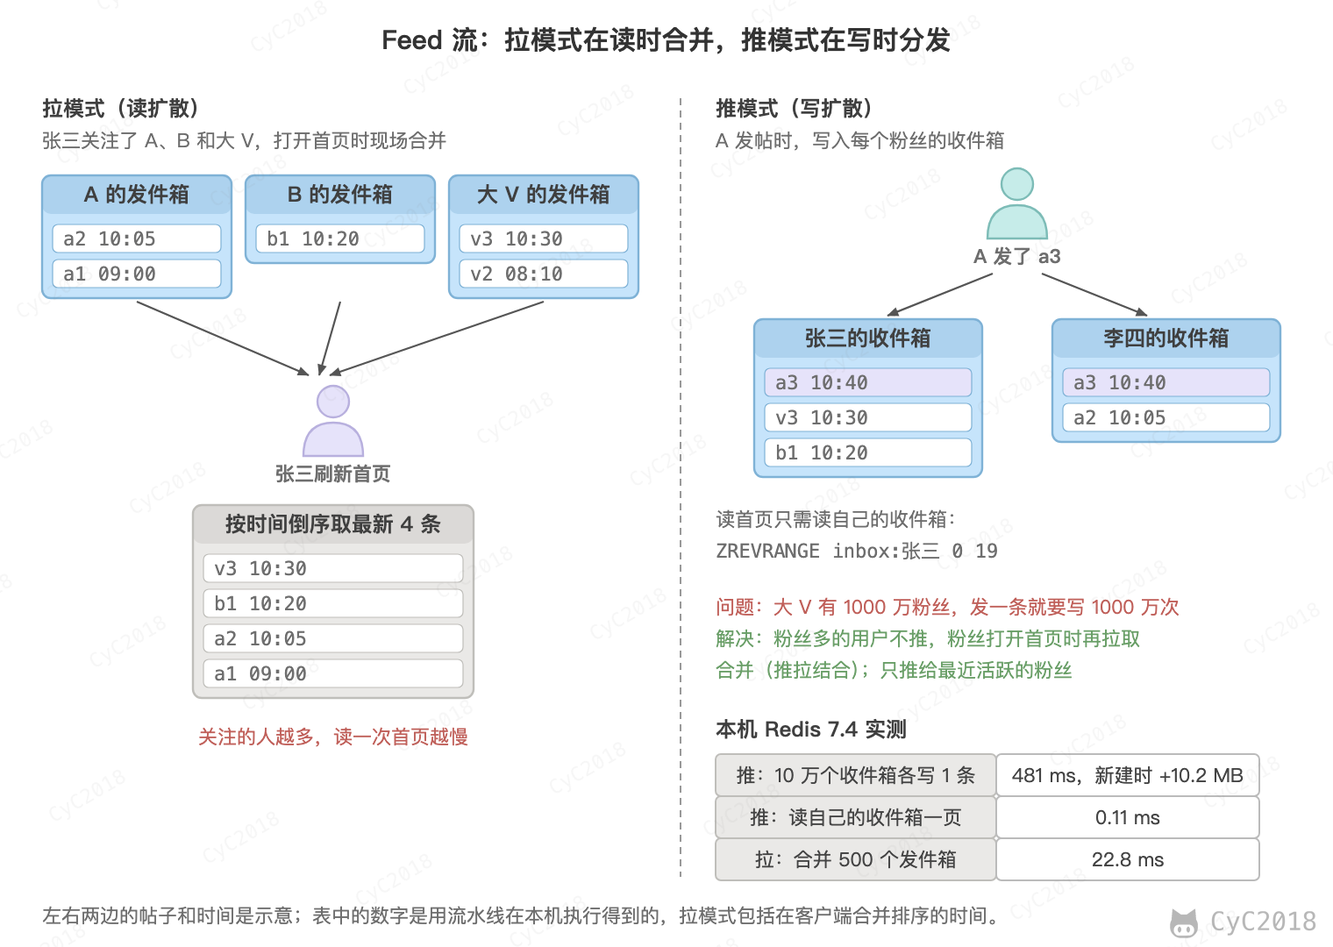
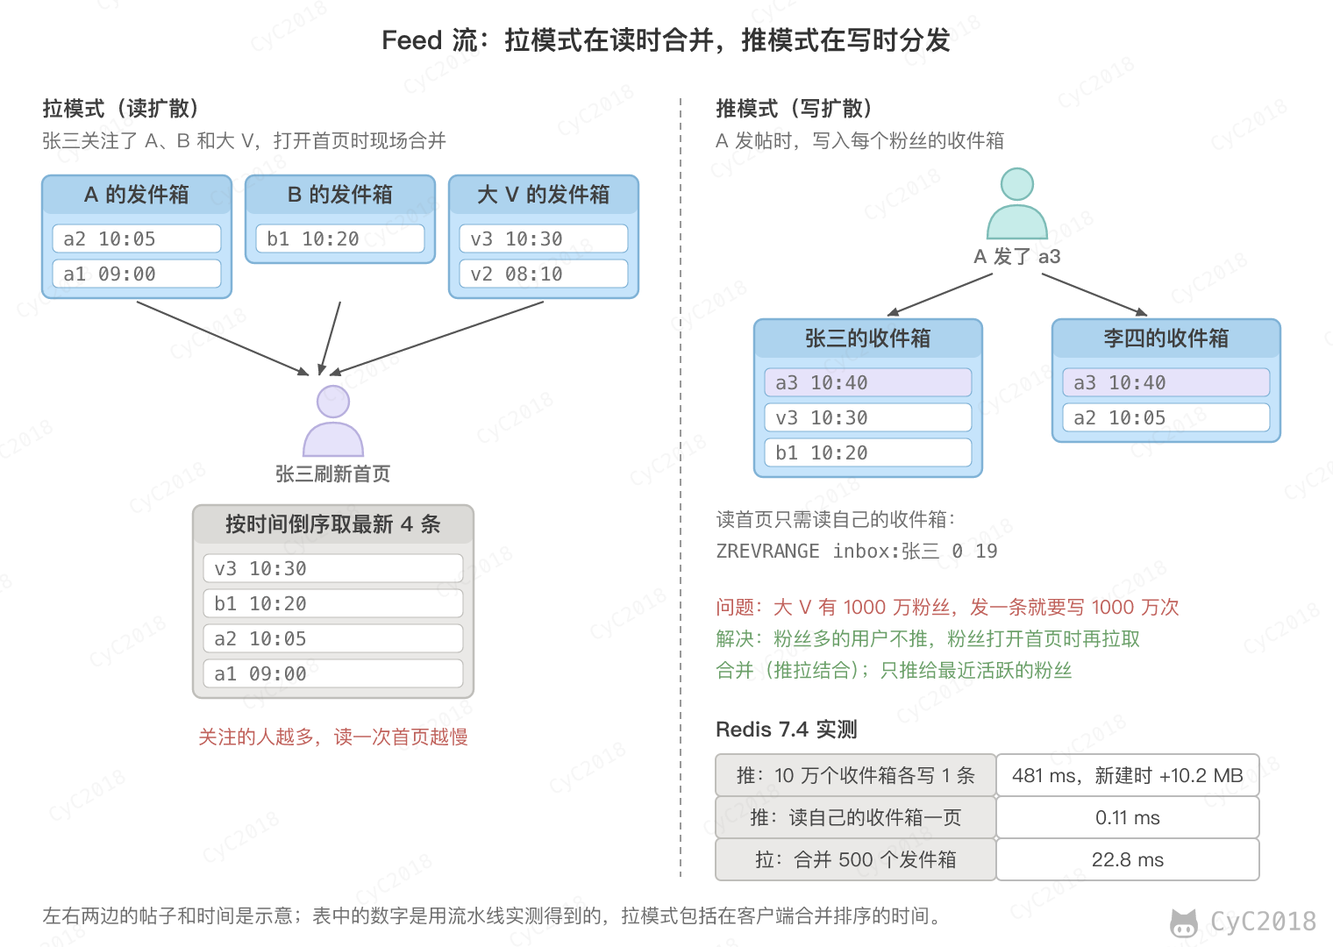
Update 系统设计基础.md
补充 Lua 脚本中 math.random 的行为（附录 A26）、红包到期退款的顺序、API 签名覆盖的字段与随机数的保存、数据权限改写 SQL 的注意事项、MinIO 的分片限制；调整 Feed 配图的说明。

diff --git a/notes/系统设计基础.md b/notes/系统设计基础.md
@@ -302,7 +302,7 @@ return 0                                            -- 可以发送
 
 同一个手机号 1 秒内请求 5 次，只有第 1 次发送了短信；把冷却时间改为 1 秒后连续请求 12 次，第 11、12 次因为当天的次数用完被拒绝；同一个 IP 给 30 个手机号发验证码，从第 21 个开始被拒绝（Redis 7.4 实测，见[附录 A20](#a20-接口防刷)）。按小时、按天计数是固定窗口，窗口边界附近可能短时间内放过两倍的请求，需要更精确时改用滑动窗口，见 [限流算法](#1-限流算法)。
 
-验证码本身也要防止被猜中。6 位数字只有 100 万种，不限制输错次数时，在本机直接调用校验脚本逐个尝试，第 835770 次猜中，只用了 8 秒（见附录 A20）；通过网络调用接口会慢一些，但按每秒 1000 次计算，平均约 8 分钟也能猜中。所以校验时：
+验证码本身也要防止被猜中。6 位数字只有 100 万种，不限制输错次数时，在服务器所在的机器上直接调用校验逻辑逐个尝试，第 835770 次猜中，只用了 8 秒（见附录 A20）；通过网络调用接口会慢一些，但按每秒 1000 次计算，平均约 8 分钟也能猜中。所以校验时：
 
 - 验证码保存在 Redis 中，5 分钟后过期，多个服务实例都能读到；
 - 输对后立即删除，一个验证码只能用一次；
@@ -310,7 +310,7 @@ return 0                                            -- 可以发送
 
 加上发送的限制，一个手机号每天最多能猜 50 次，猜中的概率只有 50 / 10<sup>6</sup> = 0.005%。
 
-开放给合作方的接口还要防止请求被篡改或者重放。重放指的是把截获的合法请求原样再发一次，例如把一次退款请求重复提交。做法是双方事先约定一个密钥，调用方把请求的关键字段和时间戳、随机数（nonce）拼在一起，用密钥计算 HMAC 签名：
+开放给合作方的接口还要防止请求被篡改或者重放。重放指的是把截获的合法请求原样再发一次，例如把一次退款请求重复提交。做法是双方事先约定一个密钥，调用方把请求的方法、路径、查询参数、请求体和时间戳、随机数（nonce）拼在一起（漏掉的部分可以被改掉而签名不变），用密钥计算 HMAC 签名：
 
 ```text
 签名原文：POST\n/api/refund\n1793000000\nn-8f3a2c\n{"order": 1024, "amount": 3900}
@@ -321,9 +321,9 @@ return 0                                            -- 可以发送
 
 - 时间戳与当前时间相差不超过 5 分钟，很久以前的请求直接拒绝；
 - 用同样的密钥重新计算签名并比较，请求中任何一个字段被改过都对不上；
-- 执行 SET nonce:n-8f3a2c 1 NX EX 600 记录随机数，失败说明这个请求已经处理过。随机数保存的时间要覆盖时间戳允许的范围，否则过期后又能重放。
+- 执行 SET nonce:n-8f3a2c 1 NX EX 600 记录随机数，失败说明这个请求已经处理过。随机数保存的时间要覆盖时间戳允许的范围，前后各 5 分钟就保存 10 分钟，否则过期后又能重放。多个调用方时键名带上调用方的标识，避免随机数相互冲突。
 
-原样重放的请求因为随机数已经用过被拒绝，改掉金额的请求签名对不上，10 分钟后再重放则时间戳超出了范围（见附录 A20）。需要注意的是，签名只适合密钥保存在服务端的调用，例如开放平台和支付回调；写在 App 或网页中的密钥可以被逆向取出，只能增加刷接口的成本。
+原样重放的请求因为随机数已经用过被拒绝，改掉金额的请求签名对不上，10 分钟后再重放则时间戳超出了范围（见附录 A20）。随机数只能拦住原样的重放：调用方超时后换一个随机数重试，签名层看到的是新请求，退款这类操作仍要按业务单号做[幂等](分布式.md#九幂等)。需要注意的是，签名只适合密钥保存在服务端的调用，例如开放平台和支付回调；写在 App 或网页中的密钥可以被逆向取出，只能增加刷接口的成本。
 
 识别出的刷接口来源，还可以在网关中加入黑名单，例如 SET ban:ip:203.0.113.7 1 EX 3600，一小时内直接拒绝它的请求。规模更大的系统会接入风控，根据设备指纹、操作轨迹等判断请求是否来自机器，可疑时要求验证码。图形和滑块验证码能被打码平台破解，同样只能提高成本，所以要和限频、黑名单一起使用。
 
@@ -496,7 +496,7 @@ WHERE id = 70001 AND user_id = 1001 AND status = 0 AND valid_end > NOW();
 拆分的时机有两种：
 
 - 预先拆分：发红包时就拆成 10 份，用 RPUSH 放入 Redis 列表，抢的时候 LPOP 一份。抢的路径只有一次弹出，金额在发的时候就已确定，可以随红包一起落库备查；代价是每一份都要占用内存，份数多时更明显；
-- 实时计算：Redis 中只保存剩余金额和剩余个数，抢的时候在 Lua 脚本中按二倍均值法算出本份金额，再更新这两个值。占用的内存固定，但每次领取都要在脚本中计算。Redis 7 中脚本的随机数生成器每次调用都会随机设置种子，可以直接调用 math.random。
+- 实时计算：Redis 中只保存剩余金额和剩余个数，抢的时候在 Lua 脚本中按二倍均值法算出本份金额，再更新这两个值。占用的内存固定，但每次领取都要在脚本中计算。Redis 7 中脚本可以直接调用 math.random。需要注意的是，随机数生成器只在启动时设置固定的初值，之后各次调用依次取同一个序列中的值，重启后序列从头开始（Redis 7.4 实测，见[附录 A26](#a26-脚本中的-mathrandom)）；对结果的不可预测性有要求时，由应用生成随机数作为参数传入。
 
 两种做法用的是同一个拆分方法，金额的分布相同，在 Lua 脚本中执行时也都不会超发。红包的份数通常不多，预先拆分的实现更简单。
 
@@ -537,7 +537,7 @@ WHERE id = 8001 AND remain_num > 0 AND remain_amount >= 276;
 
 应用在脚本执行成功之后、消息发出之前宕机时，这条领取只记录在 Redis 中。因此红包抢完或过期后，要用 Redis 中的领取记录与数据库对账，补发缺失的消息。例如每条消息都投递两次、其中一个用户的消息全部丢失：18 条消息插入 9 条、冲突 9 条，对账补发后剩余金额为 0、领取记录 10 条，合计正好 100 元（MySQL 8.0 实测，见[附录 A16](#a16-并发抢红包与异步落库)）。
 
-红包一般有有效期，例如 24 小时。到期后先完成对账，再把数据库中的剩余金额退回给发送者。
+红包一般有有效期，例如 24 小时。到期后先在 Redis 中停止领取（例如删除金额列表，之后的脚本 LPOP 取不到金额，直接返回已抢完），再对账并补发缺失的消息，确认这些领取都已写入数据库后，把数据库中的剩余金额退回给发送者。顺序反过来时，对账之后仍可能有人抢到，退回的金额就多了。
 
 ## 七、海量数据处理
 
@@ -582,7 +582,7 @@ WHERE id = 8001 AND remain_num > 0 AND remain_amount >= 276;
 
 ## 八、短链系统
 
-短链系统把很长的网址换成很短的网址，例如把 https://shop.example.com/item/1024?from=campaign 换成 https://s.example/6LAze，常用于短信和社交媒体。用户访问短链时，服务返回一个跳转，浏览器再去访问原来的长链接。
+短链系统把很长的网址换成很短的网址，例如把 `https://shop.example.com/item/1024?from=campaign` 换成 `https://s.example/6LAze`，常用于短信和社交媒体。用户访问短链时，服务返回一个跳转，浏览器再去访问原来的长链接。
 
 <div align="center"> <img src="pics/short-url.png" width="760px"/> </div><br>
 
@@ -889,7 +889,7 @@ S3 的完成请求要求列出每个分片的分片号和 ETag，服务端按分
 
 分片本身不是对象，只有完成请求之后才生成对象，分片也随之消失。因此合并是分片上传的最后一步。在 S3 中，合并由存储服务按分片号组合，应用不需要再下载、拼接并重新上传一次。
 
-MinIO 兼容 S3 的分片上传接口，它的限制与 S3 一致：分片号必须在 1 到 10000 之间，分片小于 5 MB 时返回 EntityTooSmall 错误。应用侧的流程与上文相同，区别在于分片由 MinIO 保存，完成时由 MinIO 组合成对象。如果希望大文件不经过应用服务器，也可以让客户端用预签名 URL 直接上传到对象存储，应用服务只保存上传状态。
+MinIO 兼容 S3 的分片上传接口，分片号和最小分片的限制与 S3 一致：分片号必须在 1 到 10000 之间，除最后一片外每片至少 5 MiB，否则完成上传时返回 EntityTooSmall 错误；单个分片最大 5 TiB，比 S3 的 5 GiB 大。应用侧的流程与上文相同，区别在于分片由 MinIO 保存，完成时由 MinIO 组合成对象。如果希望大文件不经过应用服务器，也可以让客户端用预签名 URL 直接上传到对象存储，应用服务只保存上传状态。
 
 ## 十二、权限系统
 
@@ -1030,7 +1030,8 @@ SELECT id, title FROM sys_order ORDER BY id;
 常见做法是在 Mapper 或 DAO 层用注解标记需要过滤的查询，由 AOP 或 MyBatis 拦截器在执行前把范围条件追加到 WHERE 中，业务代码不需要关心范围。这种做法需要注意以下几点：
 
 - 条件的值必须通过参数绑定传入，不能拼接字符串；
-- 多表关联或子查询中，条件要加在正确的表别名上，拦截器需要能正确解析 SQL；
+- 多表关联或子查询中，条件要加在正确的表别名上，原条件还要先加括号。例如 status = 1 OR status = 2 直接拼上 AND dept_id = 20，AND 的优先级高于 OR，其它部门 status = 1 的订单也会返回，所以拦截器要用 SQL 解析器改写，而不是拼接字符串；
+- MyBatis 拦截器要在 Executor.query 中、计算缓存键之前改写 SQL。在 StatementHandler.prepare 中改写时，缓存键仍按原 SQL 和参数计算，开启二级缓存后，另一个部门的用户会命中前一个用户的查询结果；
 - 分页的总数（COUNT）也要带同一条件。张三的订单列表只有 2 条，不带条件的 COUNT(*) 却返回 4，分页会显示错误的总数；
 - 修改和删除同样要带范围条件。张三修改订单 2 时，执行 UPDATE sys_order SET amount = 1 WHERE id = 2 AND creator_id = 1001，影响行数为 0，应用据此拒绝请求。这是为了防止不安全的直接对象引用（Insecure Direct Object Reference, IDOR），即用户只改动 URL 中的 ID 就访问到别人的数据；
 - 部门有层级时，DEPT 的范围还应包括下级部门，可以在部门表中保存祖先路径，或使用闭包表；
@@ -1468,12 +1469,12 @@ OBJECT ENCODING inbox:0 -> listpack
 
 ### A4 MySQL 主键点查的并发扫描
 
-环境：MySQL 8.0.44，通过 unix socket 连接；Apple M1 Pro（10 核），macOS 15.8.1；客户端 mysqlslap 与服务端在同一台机器上。表 `t1_item` 有 10 万行，主键为 `id BIGINT`，表大小约 5.5 MB，小于 128 MB 的 InnoDB 缓冲池，预热后查询都在内存中完成。
+环境：MySQL 8.0.44，通过 unix socket 连接；Apple M1 Pro（10 核），macOS 15.8.1；客户端 mysqlslap 与服务端在同一台机器上。表 `item` 有 10 万行，主键为 `id BIGINT`，表大小约 5.5 MB，小于 128 MB 的 InnoDB 缓冲池，预热后查询都在内存中完成。
 
 查询为 2000 条不同主键的语句循环执行，形如：
 
 ```sql
-SELECT name, price, stock FROM t1_item WHERE id = 48213;
+SELECT name, price, stock FROM item WHERE id = 48213;
 ```
 
 命令（每个并发数执行 3 次，每次 10 万条查询）：
@@ -1494,7 +1495,7 @@ mysqlslap --user=root --socket=<socket 路径> --create-schema=demo \
 | 64 | 0.557 | 179476 | 0.357 |
 | 128 | 0.522 | 191510 | 0.668 |
 
-吞吐量为实际执行条数除以耗时。mysqlslap 的 `--number-of-queries` 指每个客户端约执行的条数（[mysqlslap 手册](https://dev.mysql.com/doc/refman/8.0/en/mysqlslap.html)），64 和 128 个连接时取整后实际分别执行 99968 条。平均响应时间为耗时除以每个客户端的条数，即并发数 ÷ 吞吐量，包含客户端自身的开销。32 个连接的单次耗时在 0.557 至 0.927 秒之间波动。
+吞吐量为实际执行条数除以耗时。mysqlslap 的 `--number-of-queries` 是全部客户端合计的条数，按连接数向下取整平分（手册写作每个客户端的上限，与源码 mysqlslap.cc 中按连接数相除的实现不一致），64 和 128 个连接时实际分别执行 99968 条。平均响应时间为耗时除以每个客户端的条数，即并发数 ÷ 吞吐量，包含客户端自身的开销。32 个连接的单次耗时在 0.557 至 0.927 秒之间波动。
 
 原始输出（并发数 16 的一段）：
 
@@ -1509,10 +1510,10 @@ Benchmark
 
 ### A5 热点行与分散行的 UPDATE
 
-环境同[附录 A4](#a4-mysql-主键点查的并发扫描)。表 `t1_stock` 有 100 行（`sku_id` 为 1 至 100，`sold` 为计数）。热点负载为：
+环境同[附录 A4](#a4-mysql-主键点查的并发扫描)。表 `sku_stock` 有 100 行（`sku_id` 为 1 至 100，`sold` 为计数）。热点负载为：
 
 ```sql
-UPDATE t1_stock SET sold = sold + 1 WHERE sku_id = 1;
+UPDATE sku_stock SET sold = sold + 1 WHERE sku_id = 1;
 ```
 
 分散负载为 2000 条语句，`sku_id` 为 1 至 100 之间的随机数。两者都是自动提交，每个并发数执行 20000 条，3 次平均。服务端的 `innodb_flush_log_at_trx_commit` 和 `sync_binlog` 均为默认值 1，每次提交都要刷盘。
@@ -1567,7 +1568,7 @@ print(params / 1e9, kv_per_token)
 
 ### A9 分片上传的最小实现与实测
 
-环境：Apple M1 Pro，macOS 15.8.1；Python 3.13.7，标准库 http.server 和 hashlib，pymysql 2.2.8；MySQL 8.0.44，demo 库中三张表 t2_upload、t2_part、t2_file。测试文件为 300 MiB（314572800 字节），由固定种子的伪随机数生成，分片 5 MiB，共 60 片。
+环境：Apple M1 Pro，macOS 15.8.1；Python 3.13.7，标准库 http.server 和 hashlib，pymysql 2.2.8；MySQL 8.0.44，demo 库中三张表 upload_task、upload_part、file_meta。测试文件为 300 MiB（314572800 字节），由固定种子的伪随机数生成，分片 5 MiB，共 60 片。
 
 服务端的分片接收和合并（核心片段，省略建表、路由和部分错误分支）：
 
@@ -1583,18 +1584,18 @@ def put_part(self, uid, n):
             if not buf:                              # 客户端中途断开
                 break
             f.write(buf); h.update(buf); md5.update(buf); got += len(buf)
-    expect = q("SELECT expect_sha256 FROM t2_part WHERE upload_id=%s AND part_no=%s",
+    expect = q("SELECT expect_sha256 FROM upload_part WHERE upload_id=%s AND part_no=%s",
                (uid, n), 'one')
     if got != length or h.hexdigest() != expect['expect_sha256']:
         os.remove(tmp)
         return self.send(400 if got != length else 409, {'error': 'part rejected'})
     os.replace(tmp, part_path(uid, n))               # 同号分片被覆盖
-    q("UPDATE t2_part SET size=%s, etag=%s WHERE upload_id=%s AND part_no=%s",
+    q("UPDATE upload_part SET size=%s, etag=%s WHERE upload_id=%s AND part_no=%s",
       (got, md5.hexdigest(), uid, n))
     self.send(200, {'part': n, 'etag': md5.hexdigest()})
 
 # 服务端：完成上传。条件更新保证只有一个请求进入合并，合并时流式计算整文件哈希
-if q("UPDATE t2_upload SET status='completing' WHERE id=%s AND status='uploading'", (uid,)) == 0:
+if q("UPDATE upload_task SET status='completing' WHERE id=%s AND status='uploading'", (uid,)) == 0:
     return self.send(409, {'error': 'being completed or aborted'})
 # 此处省略检查缺片、逐片核对哈希的代码
 h = hashlib.sha256()
@@ -1747,10 +1748,10 @@ $ 客户端 status e355c1f1002e409d
 upload directory exists after abort: False
 
 == E1 数据库状态
-t2_upload by status: (('aborted', 1), ('done', 2))
-t2_file rows: 2
-t2_part (upload_id, rows, uploaded): ('762fa9bd16a44d31', 20, Decimal('20'))
-t2_part (upload_id, rows, uploaded): ('b80db1c51e31407b', 60, Decimal('60'))
+upload_task by status: (('aborted', 1), ('done', 2))
+file_meta rows: 2
+upload_part (upload_id, rows, uploaded): ('762fa9bd16a44d31', 20, Decimal('20'))
+upload_part (upload_id, rows, uploaded): ('b80db1c51e31407b', 60, Decimal('60'))
 
 == 服务端日志
 listening on 49696
@@ -1782,7 +1783,7 @@ SHA-256 扫描 300 MiB 实测 0.31 s，换算 2 GiB 约 2.12 s
 
 ### A11 权限判断与执行计划
 
-环境：MySQL 8.0.44，macOS（Apple M1 Pro），库 t3_rbac，客户端字符集 utf8mb4。判断查询与正文相同，五个用例只替换 user_id、请求方法和路径。原始输出如下：
+环境：MySQL 8.0.44，macOS（Apple M1 Pro），库 rbac，客户端字符集 utf8mb4。判断查询与正文相同，五个用例只替换 user_id、请求方法和路径。原始输出如下：
 
 ```text
 +--------------------------------+---------+
@@ -1795,13 +1796,13 @@ SHA-256 扫描 300 MiB 实测 0.31 s，换算 2 GiB 约 2.12 s
 | 1005 GET /api/orders (no role) | 0       |
 +--------------------------------+---------+
 
-+----+-------------+-------+------------+--------+-----------------------+---------------+---------+--------------------------+------+----------+-------------+
-| id | select_type | table | partitions | type   | possible_keys         | key           | key_len | ref                      | rows | filtered | Extra       |
-+----+-------------+-------+------------+--------+-----------------------+---------------+---------+--------------------------+------+----------+-------------+
-| 1  | SIMPLE      | p     | NULL       | const  | PRIMARY,uk_method_url | uk_method_url | 1056    | const,const              | 1    | 100.00   | NULL        |
-| 1  | SIMPLE      | ur    | NULL       | ref    | PRIMARY,idx_role_id   | PRIMARY       | 8       | const                    | 1    | 100.00   | Using index |
-| 1  | SIMPLE      | rp    | NULL       | eq_ref | PRIMARY,idx_perm_id   | PRIMARY       | 16      | t3_rbac.ur.role_id,const | 1    | 100.00   | Using index |
-+----+-------------+-------+------------+--------+-----------------------+---------------+---------+--------------------------+------+----------+-------------+
++----+-------------+-------+------------+--------+-----------------------+---------------+---------+-----------------------+------+----------+-------------+
+| id | select_type | table | partitions | type   | possible_keys         | key           | key_len | ref                   | rows | filtered | Extra       |
++----+-------------+-------+------------+--------+-----------------------+---------------+---------+-----------------------+------+----------+-------------+
+| 1  | SIMPLE      | p     | NULL       | const  | PRIMARY,uk_method_url | uk_method_url | 1056    | const,const           | 1    | 100.00   | NULL        |
+| 1  | SIMPLE      | ur    | NULL       | ref    | PRIMARY,idx_role_id   | PRIMARY       | 8       | const                 | 1    | 100.00   | Using index |
+| 1  | SIMPLE      | rp    | NULL       | eq_ref | PRIMARY,idx_perm_id   | PRIMARY       | 16      | rbac.ur.role_id,const | 1    | 100.00   | Using index |
++----+-------------+-------+------------+--------+-----------------------+---------------+---------+-----------------------+------+----------+-------------+
 ```
 
 ### A12 数据范围、分页总数与写操作
@@ -1947,7 +1948,7 @@ return 0
  10400 ms  拒绝  剩余令牌 0.0
 ```
 
-内存用 MEMORY USAGE <key> SAMPLES 0 测量：写入 1000 条记录的 ZSET（成员形如 req-1000000，分值为毫秒时间戳）为 102016 字节，多次运行在 101888～102384 字节之间；固定窗口的计数器为 56 字节，令牌桶的哈希表为 104 字节。
+内存用 MEMORY USAGE \<key> SAMPLES 0 测量：写入 1000 条记录的 ZSET（成员形如 req-1000000，分值为毫秒时间戳）为 102016 字节，多次运行在 101888～102384 字节之间；固定窗口的计数器为 56 字节，令牌桶的哈希表为 104 字节。
 
 单个键的吞吐量用 redis-benchmark 测量（本机回环，50 个连接，每项 200000 次，同一个键），令牌桶脚本先用 SCRIPT LOAD 加载：
 
@@ -2258,40 +2259,40 @@ ignoreExceptions(BizException)：状态 CLOSED，失败 0 次，失败率 -1%，
 
 ### A19 防止超卖的几种写法
 
-环境：MySQL 8.0.44（默认的可重复读），Python 3 + PyMySQL，Apple M1 Pro。表 d5_goods(id, stock, version) 中商品 1001 的库存为 100，d5_order 的主键为 (user_id, goods_id)。每种写法用 64 个线程，每个用户请求 1 次，每个线程使用自己的连接（自动提交）：
+环境：MySQL 8.0.44（默认的可重复读），Python 3 + PyMySQL，Apple M1 Pro。表 goods(id, stock, version) 中商品 1001 的库存为 100，goods_order 的主键为 (user_id, goods_id)。每种写法用 64 个线程，每个用户请求 1 次，每个线程使用自己的连接（自动提交）：
 
 ```python
 def naive(uid):           # 先查询，大于 0 再扣减
-    cur.execute("SELECT stock FROM d5_goods WHERE id = 1001")
+    cur.execute("SELECT stock FROM goods WHERE id = 1001")
     if cur.fetchone()[0] <= 0: return 'soldout'
-    cur.execute("UPDATE d5_goods SET stock = stock - 1 WHERE id = 1001")
-    cur.execute("INSERT INTO d5_order VALUES (%s, 1001)", (uid,))
+    cur.execute("UPDATE goods SET stock = stock - 1 WHERE id = 1001")
+    cur.execute("INSERT INTO goods_order VALUES (%s, 1001)", (uid,))
     return 'ok'
 
 def pessimistic(uid):     # SELECT ... FOR UPDATE
     c.begin()
-    cur.execute("SELECT stock FROM d5_goods WHERE id = 1001 FOR UPDATE")
+    cur.execute("SELECT stock FROM goods WHERE id = 1001 FOR UPDATE")
     if cur.fetchone()[0] <= 0: c.rollback(); return 'soldout'
-    cur.execute("UPDATE d5_goods SET stock = stock - 1 WHERE id = 1001")
-    cur.execute("INSERT INTO d5_order VALUES (%s, 1001)", (uid,))
+    cur.execute("UPDATE goods SET stock = stock - 1 WHERE id = 1001")
+    cur.execute("INSERT INTO goods_order VALUES (%s, 1001)", (uid,))
     c.commit(); return 'ok'
 
 def optimistic(uid, retries=0):   # 版本号，冲突时最多重试 retries 次
     for _ in range(retries + 1):
-        cur.execute("SELECT stock, version FROM d5_goods WHERE id = 1001")
+        cur.execute("SELECT stock, version FROM goods WHERE id = 1001")
         stock, ver = cur.fetchone()
         if stock <= 0: return 'soldout'
-        n = cur.execute("UPDATE d5_goods SET stock = stock - 1, version = version + 1 "
+        n = cur.execute("UPDATE goods SET stock = stock - 1, version = version + 1 "
                         "WHERE id = 1001 AND version = %s", (ver,))
         if n == 1:
-            cur.execute("INSERT INTO d5_order VALUES (%s, 1001)", (uid,))
+            cur.execute("INSERT INTO goods_order VALUES (%s, 1001)", (uid,))
             return 'ok'
     return 'conflict'
 
 def conditional(uid):     # 条件更新
-    n = cur.execute("UPDATE d5_goods SET stock = stock - 1 WHERE id = 1001 AND stock > 0")
+    n = cur.execute("UPDATE goods SET stock = stock - 1 WHERE id = 1001 AND stock > 0")
     if n == 0: return 'soldout'
-    cur.execute("INSERT INTO d5_order VALUES (%s, 1001)", (uid,))
+    cur.execute("INSERT INTO goods_order VALUES (%s, 1001)", (uid,))
     return 'ok'
 ```
 
@@ -2682,6 +2683,22 @@ WHERE o.pay_txn IS NOT NULL AND o.channel = 'wxpay'
 |         NULL |     1027 |        NULL |         2500 | wx1027  | 本地成功、账单无       |
 +--------------+----------+-------------+--------------+---------+------------------------+
 ```
+
+### A26 脚本中的 math.random
+
+环境：Redis 7.4.1，Apple M1 Pro，macOS，默认配置。连续调用三次同一个脚本，重启 Redis 后再调用三次：
+
+```bash
+for i in 1 2 3; do redis-cli eval "return math.random(1,1000000)" 0; done
+redis-cli shutdown nosave    # 重新启动 redis-server 后再执行上一行
+```
+
+```text
+重启前：396465  840486  353337
+重启后：396465  840486  353337
+```
+
+三次调用的结果不同，说明不是每次调用都把种子重设为同一个值；重启后得到同样的序列，说明初值是固定的。源码中 math.random 被替换为 redisLrand48，只有脚本调用 math.randomseed 时才重设种子（src/rand.c、src/script_lua.c）。
 
 ## 参考资料
 
